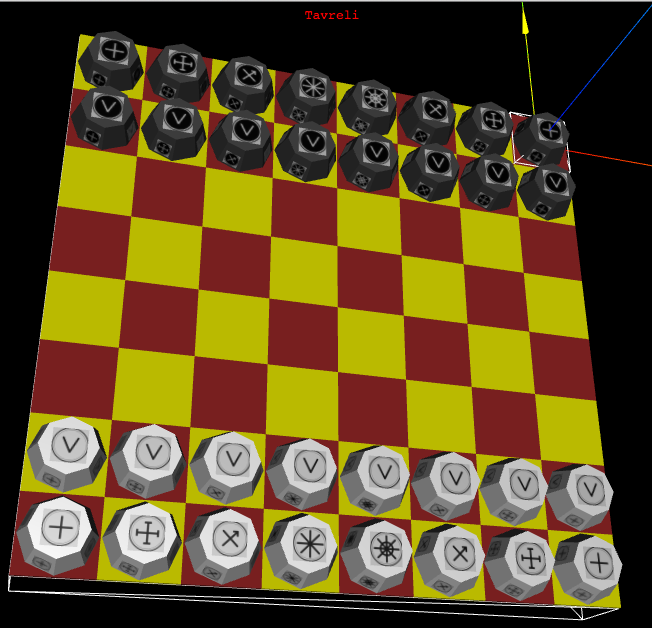
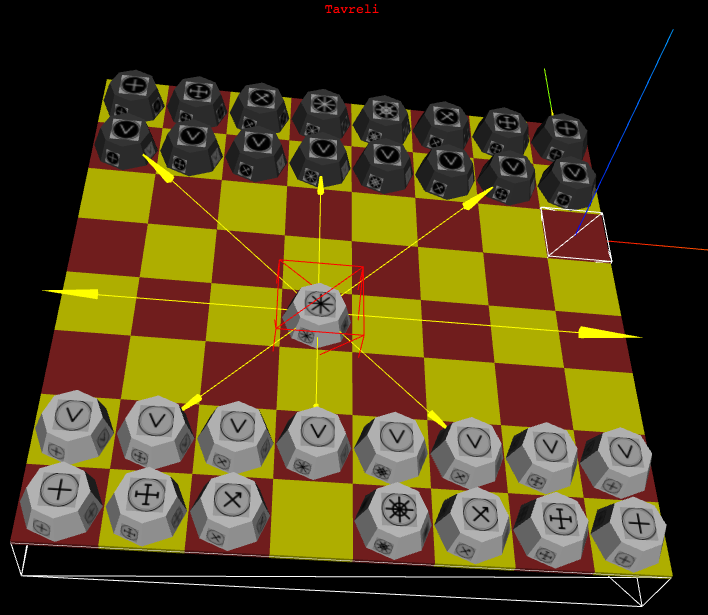
available figure position

diff --git a/board.js b/board.js
@@ -65,21 +65,22 @@ TAVRELI.init = function() {
             chess.position.x = (i % 8) - 4 + .5;
             chess.boardPosition = new THREE.Vector2();
             chess.boardPosition.x = (i % 8);
+            chess.position.z = .5;
+            if (i == 11){
+                makeTestFigure(i);
+                continue;
+            };
             if (i <= 7){
                 chess.position.y = 1 - 4 + .5;
-                chess.position.z = .5;
                 chess.boardPosition.y = 1;
             }else if ((i >= 8)&&(i <= 15)){
                 chess.position.y = 0 - 4 + .5;
-                chess.position.z = .5;
                 chess.boardPosition.y = 0;
             }else if ((i >= 16)&&(i <= 23)){
                 chess.position.y = 6 - 4 + .5;
-                chess.position.z = .5;
                 chess.boardPosition.y = 6;
             }else if ((i >= 24)&&(i <= 31)){
                 chess.position.y = 7 - 4 + .5;
-                chess.position.z = .5;
                 chess.boardPosition.y = 7;
             }else{
                 return;
@@ -88,6 +89,18 @@ TAVRELI.init = function() {
             figures.allFigure.push(chess);
             scene.add(chess);
         };
+    };
+    var makeTestFigure = function(figureIndex){
+        mainFigure = new Chess(originCube);
+        var chess = mainFigure.getMainObj().clone();
+        chess.name = 'figure';
+        chess.boardPosition = new THREE.Vector2(3,3);
+        chess.position.x = (3 % 8) - 4 + .5;
+        chess.position.y = 3 - 4 + .5;
+        chess.position.z = .5;
+        makeFigureWithIndex(chess,figureIndex);
+        figures.allFigure.push(chess);
+        scene.add(chess);
     };
     var makeFigureWithIndex = function(obj,index){
         obj.figureIndex = index;
@@ -101,46 +114,53 @@ TAVRELI.init = function() {
     var makeTavreli = function(obj,ind,postfix){
         if (ind == 0 || ind == 7){
             obj.main = new RatnikContainer();
-            obj.main.addMoveArrow(obj);
             replaceMaterial(obj,'topFigureMaterial','ratnik_'+postfix);
             replaceMaterial(obj,'secondFigureMaterial','ratoborec_'+postfix);
         }else if (ind == 1 || ind == 6){
+            obj.main = new RatnikContainer();
             replaceMaterial(obj,'topFigureMaterial','ratnik_'+postfix);
             replaceMaterial(obj,'secondFigureMaterial','vsadnik_'+postfix);
-            obj.main = new RatnikContainer();
         }else if (ind == 2 || ind == 5){
+            obj.main = new RatnikContainer();
             replaceMaterial(obj,'topFigureMaterial','ratnik_'+postfix);
             replaceMaterial(obj,'secondFigureMaterial','luchnik_'+postfix);
-            obj.main = new RatnikContainer();
         }else if (ind == 3){
+            obj.main = new RatnikContainer();
             replaceMaterial(obj,'topFigureMaterial','ratnik_'+postfix);
             replaceMaterial(obj,'secondFigureMaterial','knyaz_'+postfix);
-            obj.main = new RatnikContainer();
         }else if (ind == 4){
+            obj.main = new RatnikContainer();
             replaceMaterial(obj,'topFigureMaterial','ratnik_'+postfix);
             replaceMaterial(obj,'secondFigureMaterial','helgi_'+postfix);
             obj.main = new RatnikContainer();
         }else if (ind == 8 || ind == 15){
+            obj.main = new RatoborecContainer();
             replaceMaterial(obj,'topFigureMaterial','ratoborec_'+postfix);
             replaceMaterial(obj,'secondFigureMaterial','ratoborec_'+postfix);
             replaceMaterial(obj,'mainFigureMaterial','ratoborec_'+postfix);
         }else if (ind == 9 || ind == 14){
+            obj.main = new VsadnikContainer();
             replaceMaterial(obj,'topFigureMaterial','vsadnik_'+postfix);
             replaceMaterial(obj,'secondFigureMaterial','vsadnik_'+postfix);
             replaceMaterial(obj,'mainFigureMaterial','vsadnik_'+postfix);
         }else if (ind == 10 || ind == 13){
+            obj.main = new LuchnikContainer();
             replaceMaterial(obj,'topFigureMaterial','luchnik_'+postfix);
             replaceMaterial(obj,'secondFigureMaterial','luchnik_'+postfix);
             replaceMaterial(obj,'mainFigureMaterial','luchnik_'+postfix);
         }else if (ind == 11){
+            obj.main = new KnyazContainer();
             replaceMaterial(obj,'topFigureMaterial','knyaz_'+postfix);
             replaceMaterial(obj,'secondFigureMaterial','knyaz_'+postfix);
             replaceMaterial(obj,'mainFigureMaterial','knyaz_'+postfix);
         }else if (ind == 12){
+            obj.main = new VolhvContainer();
             replaceMaterial(obj,'topFigureMaterial','volhv_'+postfix);
             replaceMaterial(obj,'secondFigureMaterial','volhv_'+postfix);
             replaceMaterial(obj,'mainFigureMaterial','volhv_'+postfix);
         };
+        // obj.main.addMoveArrow(obj);
+        UTILS.addMoveArrow(obj);
     };
     var replaceMaterial = function(object,matSourceName,matDestName){
         var matDest = materials[matDestName].clone();

diff --git a/utils.js b/utils.js
@@ -9,41 +9,72 @@ UTILS.rotateAroundWorldAxis = function(object, axis, radians) {
     object.rotation.setFromRotationMatrix(rotationMatrix);
 };
 UTILS.getMoveArray = function(figure,board){
-	var moveArray_ = [];
-	var figureMoveRule_ = figure.main.getMoveRule();
-	for (var i = 0; i < figureMoveRule_.length; i++) {
-		var endPos_ = UTILS.getBoundPosition(figure.boardPosition,figureMoveRule_[i],figure.main.isJump(),board.getAllFigure());
-		if (endPos_ != null) moveArray_.push(endPos_);
-	};
-	return moveArray_;
+    var moveArray_ = [];
+    var figureMoveRule_ = figure.main.getMoveRule();
+    for (var i = 0; i < figureMoveRule_.length; i++) {
+        var endPos_ = UTILS.getBoundPosition(figure.boardPosition,figureMoveRule_[i],figure.main.isJump(),board.getAllFigure());
+        if (endPos_ != null) moveArray_.push(endPos_);
+    };
+    return moveArray_;
 };
 UTILS.getBoundPosition = function(pos2dVec,arrow2dVec,isJump,figuresArray){
-	var targetPos_ = new THREE.Vector2().addVectors(pos2dVec,arrow2dVec);
-	var boundBox = new THREE.Box2(new THREE.Vector2(0,0),new THREE.Vector2(7,7));
-	if (isJump === true) {
-		if (boundBox.containsPoint(targetPos_)) {
-			return targetPos_;
-		};
-		return null;
-	};
-	var vNormal = arrow2dVec.normalize();
-	targetPos_ = pos2dVec.clone();
-	targetPos_.add(vNormal);
-	var prev_ = targetPos_;
-	while(boundBox.containsPoint(targetPos_)){
-		prev_ = targetPos_;
-		if (UTILS.isFigure(targetPos_,figuresArray) === true){
-			break;
-		};
-		targetPos_.add(vNormal);
-	};
-	return prev_;
+    var targetPos_ = new THREE.Vector2().addVectors(pos2dVec,arrow2dVec);
+    var boundBox = new THREE.Box2(new THREE.Vector2(0,0),new THREE.Vector2(7,7));
+    if (isJump === true) {
+        if (boundBox.containsPoint(targetPos_)) {
+            return targetPos_;
+        };
+        return null;
+    };
+    var vNormal = arrow2dVec.clone();//normalize();
+    targetPos_ = pos2dVec.clone();
+    targetPos_.add(vNormal);
+    var prev_ = targetPos_;
+    while(boundBox.containsPoint(targetPos_)){
+        prev_ = targetPos_;
+        if (UTILS.isFigure(targetPos_,figuresArray) === true){
+            break;
+        };
+        targetPos_.add(vNormal);
+    };
+    return prev_;
 };
 UTILS.isFigure = function(pos2dVec,figuresArray){
-	for (var i = 0; i < figuresArray.length; i++) {
-		if (figuresArray[i].boardPosition.equals(pos2dVec)){
-			return true;
-		};
-	};
-	return false;
+    for (var i = 0; i < figuresArray.length; i++) {
+        if (figuresArray[i].boardPosition.equals(pos2dVec)){
+            return true;
+        };
+    };
+    return false;
+};
+UTILS.removeAllArrow = function(figure){
+    for (var i = 0; i < figure.children.length; i++) {
+        var child_ = figure.children[i];
+        if (child_.name == 'move_arrow'){
+            figure.remove(child_);
+        };
+    };
+};
+UTILS.showAvailablePositions = function(posArray,figure){
+    UTILS.removeAllArrow(figure);
+    var dirFlag_ = 1;
+    for (var i = 0; i < posArray.length; i++) {
+        var arrow_ = figure.main.moveArrows[i];
+        var vecDir_ = new THREE.Vector2().subVectors(posArray[i],figure.boardPosition);
+        if (figure.figureIndex <= 15) dirFlag_ = -1;//todo
+        arrow_.setDirection(new THREE.Vector3(vecDir_.x,0,vecDir_.y * dirFlag_).normalize());
+        arrow_.setLength(vecDir_.length() * 4.0);
+        figure.add(figure.main.moveArrows[i]);
+    };
+};
+UTILS.addMoveArrow = function(figure){
+    var moveRule_ = figure.main.getMoveRule();
+    figure.main.moveArrows = [];
+    for (var i = 0; i < moveRule_.length; i++) {
+        var vecDir_ = new THREE.Vector3(moveRule_[i].x,0,moveRule_[i].y);
+        var objectArrow = new THREE.ArrowHelper(vecDir_, new THREE.Vector3(0, 1, 0), 10);
+        objectArrow.name = 'move_arrow';
+        figure.main.moveArrows.push(objectArrow);
+        // figure.add(objectArrow);
+    };
 };

diff --git a/figures.js b/figures.js
@@ -12,13 +12,6 @@ function RatnikContainer(){
 
 	this.name = 'Ratnik';
 
-	this.addMoveArrow = function(figure){
-	    // var objectAxis = new THREE.AxisHelper(4);
-	    var objectArrow = new THREE.ArrowHelper(new THREE.Vector3(0, 0, -10), new THREE.Vector3(0, 1, 0), 10);
-	    objectArrow.name = 'move_arrow';
-		figure.add(objectArrow);
-	};
-
 	_moveRule.push(new THREE.Vector2(0, 1));
 
 	_attackRule.push(new THREE.Vector2(1, 1));
@@ -37,12 +30,12 @@ function RatoborecContainer(){
 
 	this.name = 'Ratoborec';
 
-	_moveRule.push(new THREE.Vector2( 8, 0));
-	_moveRule.push(new THREE.Vector2(-8, 0));
-	_moveRule.push(new THREE.Vector2( 0, 8));
-	_moveRule.push(new THREE.Vector2( 0,-8));
+	_moveRule.push(new THREE.Vector2( 1, 0));
+	_moveRule.push(new THREE.Vector2(-1, 0));
+	_moveRule.push(new THREE.Vector2( 0, 1));
+	_moveRule.push(new THREE.Vector2( 0,-1));
 
-	_attackRule = _moveRule.clone();
+	_attackRule = _moveRule.slice();
 
 	this.getMoveRule   = function(){ return _moveRule;   };
 	this.getAttackRule = function(){ return _attackRule; };
@@ -66,7 +59,7 @@ function VsadnikContainer(){
 	_moveRule.push(new THREE.Vector2(-2, 1));
 	_moveRule.push(new THREE.Vector2(-2,-1));
 
-	_attackRule = _moveRule.clone();
+	_attackRule = _moveRule.slice();
 
 	this.getMoveRule   = function(){ return _moveRule;   };
 	this.getAttackRule = function(){ return _attackRule; };
@@ -81,12 +74,12 @@ function LuchnikContainer(){
 
 	this.name = 'Luchnik';
 
-	_moveRule.push(new THREE.Vector2( 8, 8));
-	_moveRule.push(new THREE.Vector2(-8, 8));
-	_moveRule.push(new THREE.Vector2( 8,-8));
-	_moveRule.push(new THREE.Vector2(-8,-8));
+	_moveRule.push(new THREE.Vector2( 1, 1));
+	_moveRule.push(new THREE.Vector2(-1, 1));
+	_moveRule.push(new THREE.Vector2( 1,-1));
+	_moveRule.push(new THREE.Vector2(-1,-1));
 
-	_attackRule = _moveRule.clone();
+	_attackRule = _moveRule.slice();
 
 	this.getMoveRule   = function(){ return _moveRule;   };
 	this.getAttackRule = function(){ return _attackRule; };
@@ -101,10 +94,10 @@ function KnyazContainer(){
 
 	this.name = 'Knyaz';
 
-	_moveRule.push(new RatoborecContainer().getMoveRule());
-	_moveRule.push(new LuchnikContainer().getMoveRule());
-
-	_attackRule = _moveRule.clone();
+	var _moveRule1 = new RatoborecContainer().getMoveRule().slice();
+	var _moveRule2 = new LuchnikContainer().getMoveRule().slice();
+	_moveRule = _moveRule1.concat(_moveRule2)
+	_attackRule = _moveRule.slice();
 
 	this.getMoveRule   = function(){ return _moveRule;   };
 	this.getAttackRule = function(){ return _attackRule; };
@@ -128,7 +121,7 @@ function VolhvContainer(){
 	_moveRule.push(new THREE.Vector2(-1, 0));// -
 	_moveRule.push(new THREE.Vector2(-1, 1));// \
 
-	_attackRule = _moveRule.clone();
+	_attackRule = _moveRule.slice();
 
 	this.getMoveRule   = function(){ return _moveRule;   };
 	this.getAttackRule = function(){ return _attackRule; };

diff --git a/logic.js b/logic.js
@@ -18,7 +18,8 @@ function LogicContainer() {
 			board.selectFigureWithIndex(selectedFigureIndex);
 			state = cSTATE.TARGET;
 			var figure_ = getFigureWithIndex(selectedFigureIndex,board.getAllFigure());
-			var availablePosition = UTILS.getMoveArray(figure_,board);
+			var availablePositions = UTILS.getMoveArray(figure_,board);
+			UTILS.showAvailablePositions(availablePositions,figure_);
 		};
 		console.log('figure='+res);
 	};
